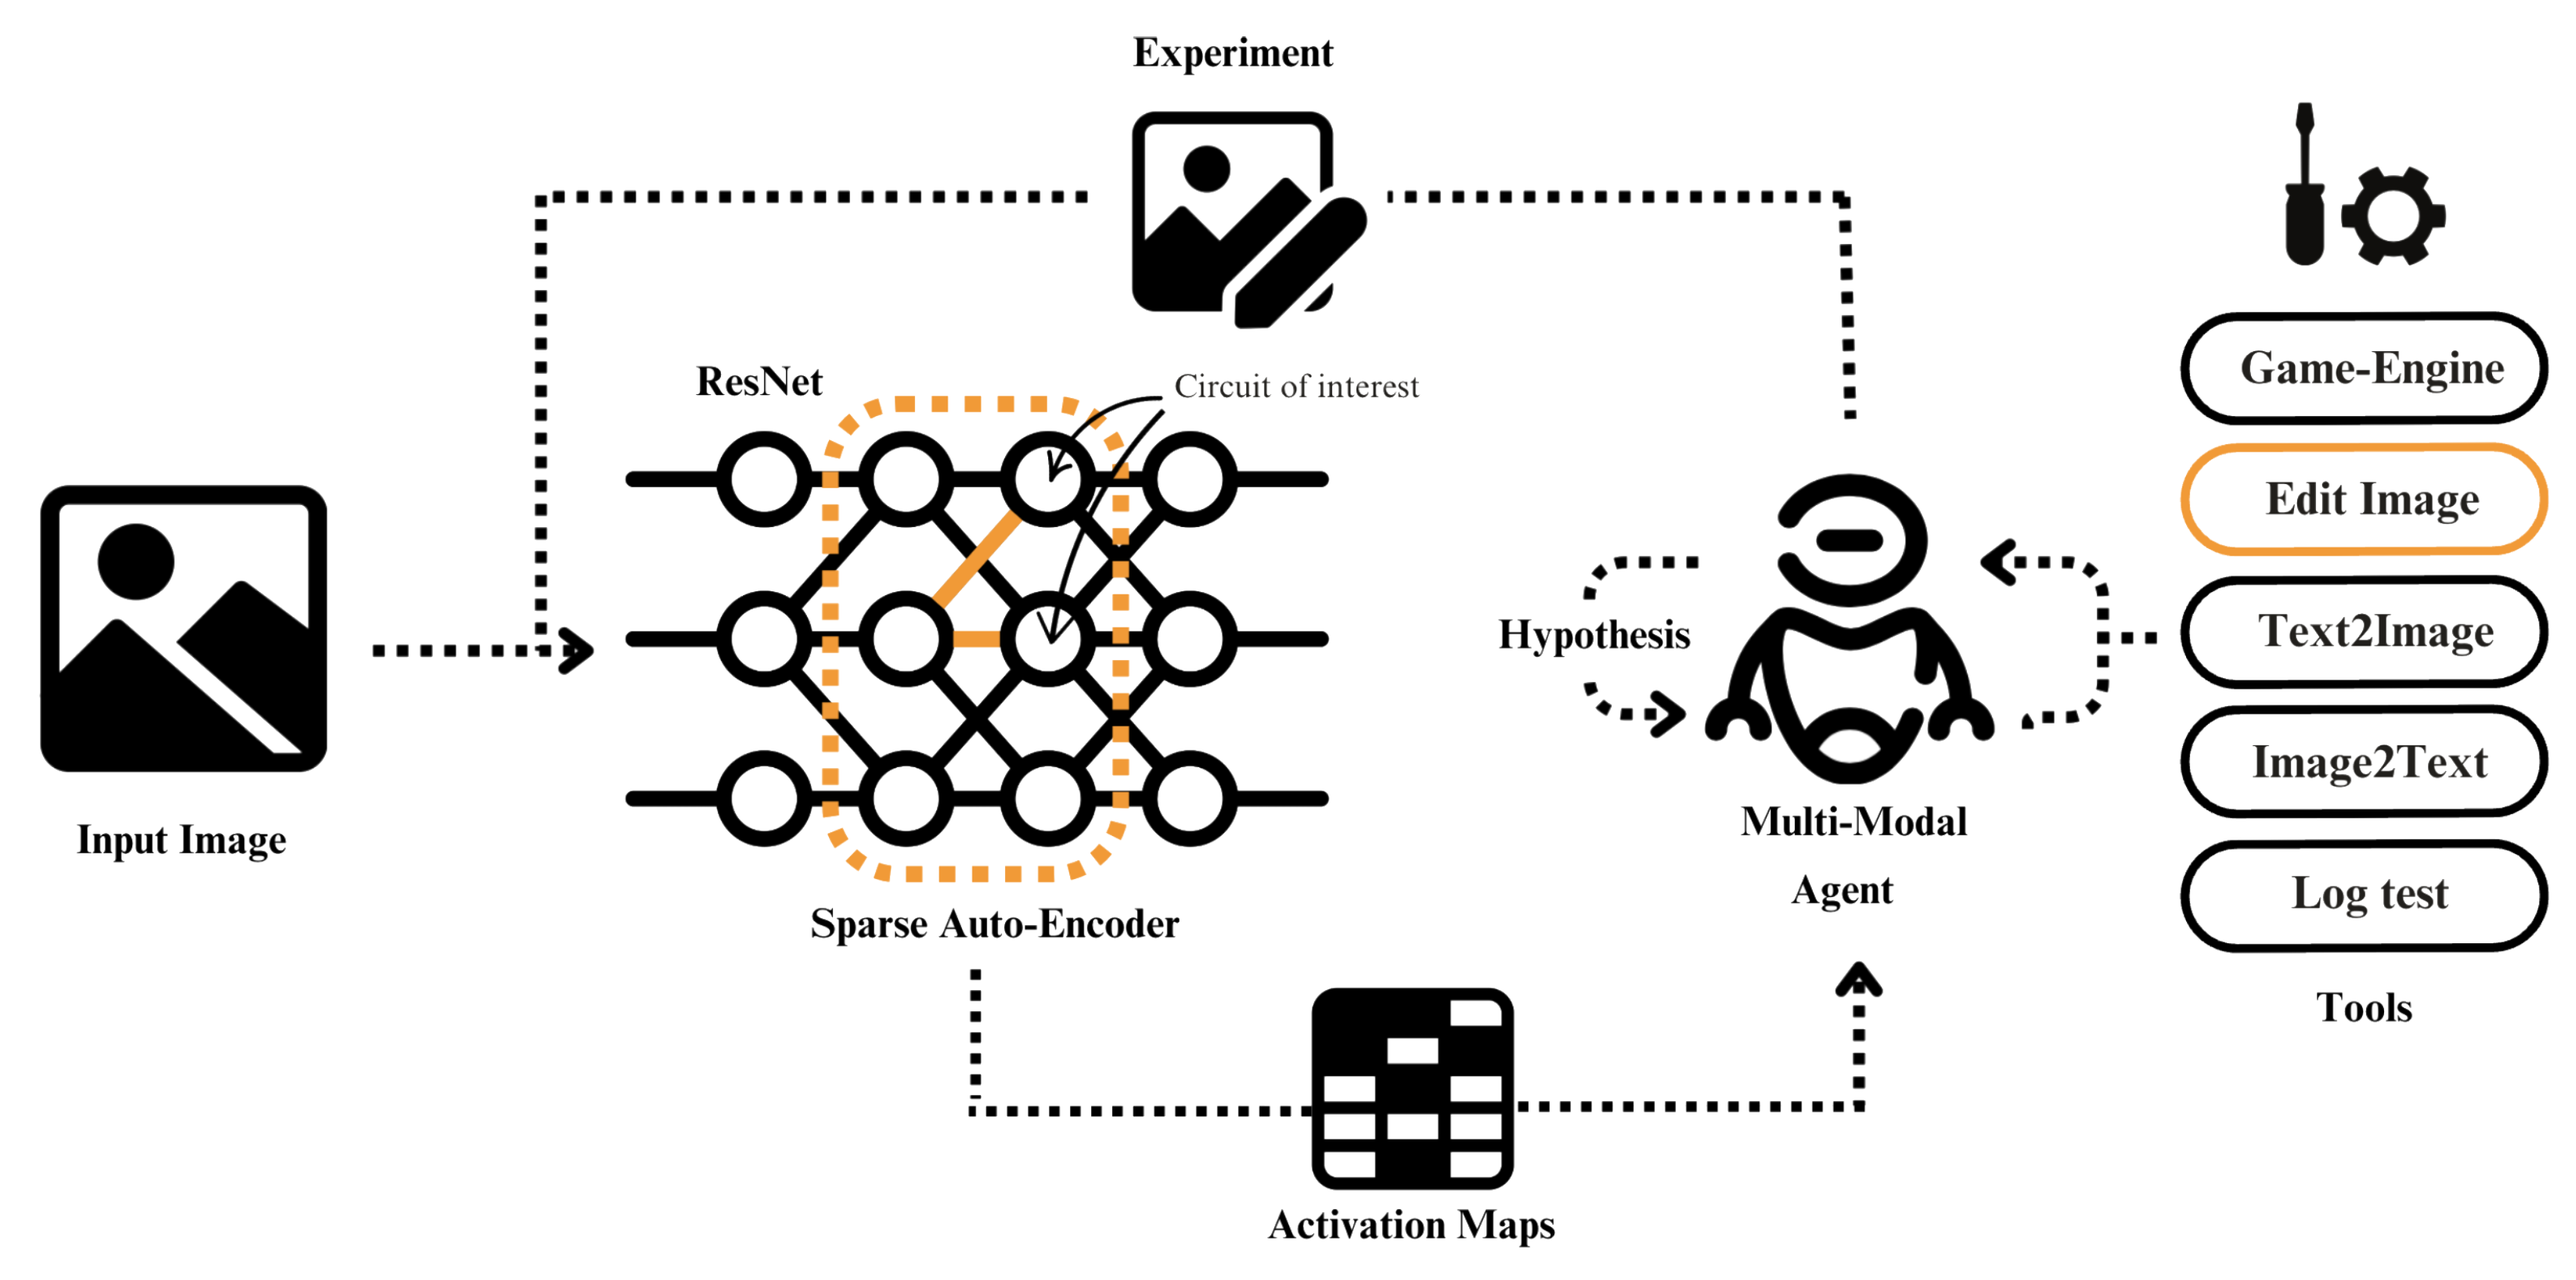
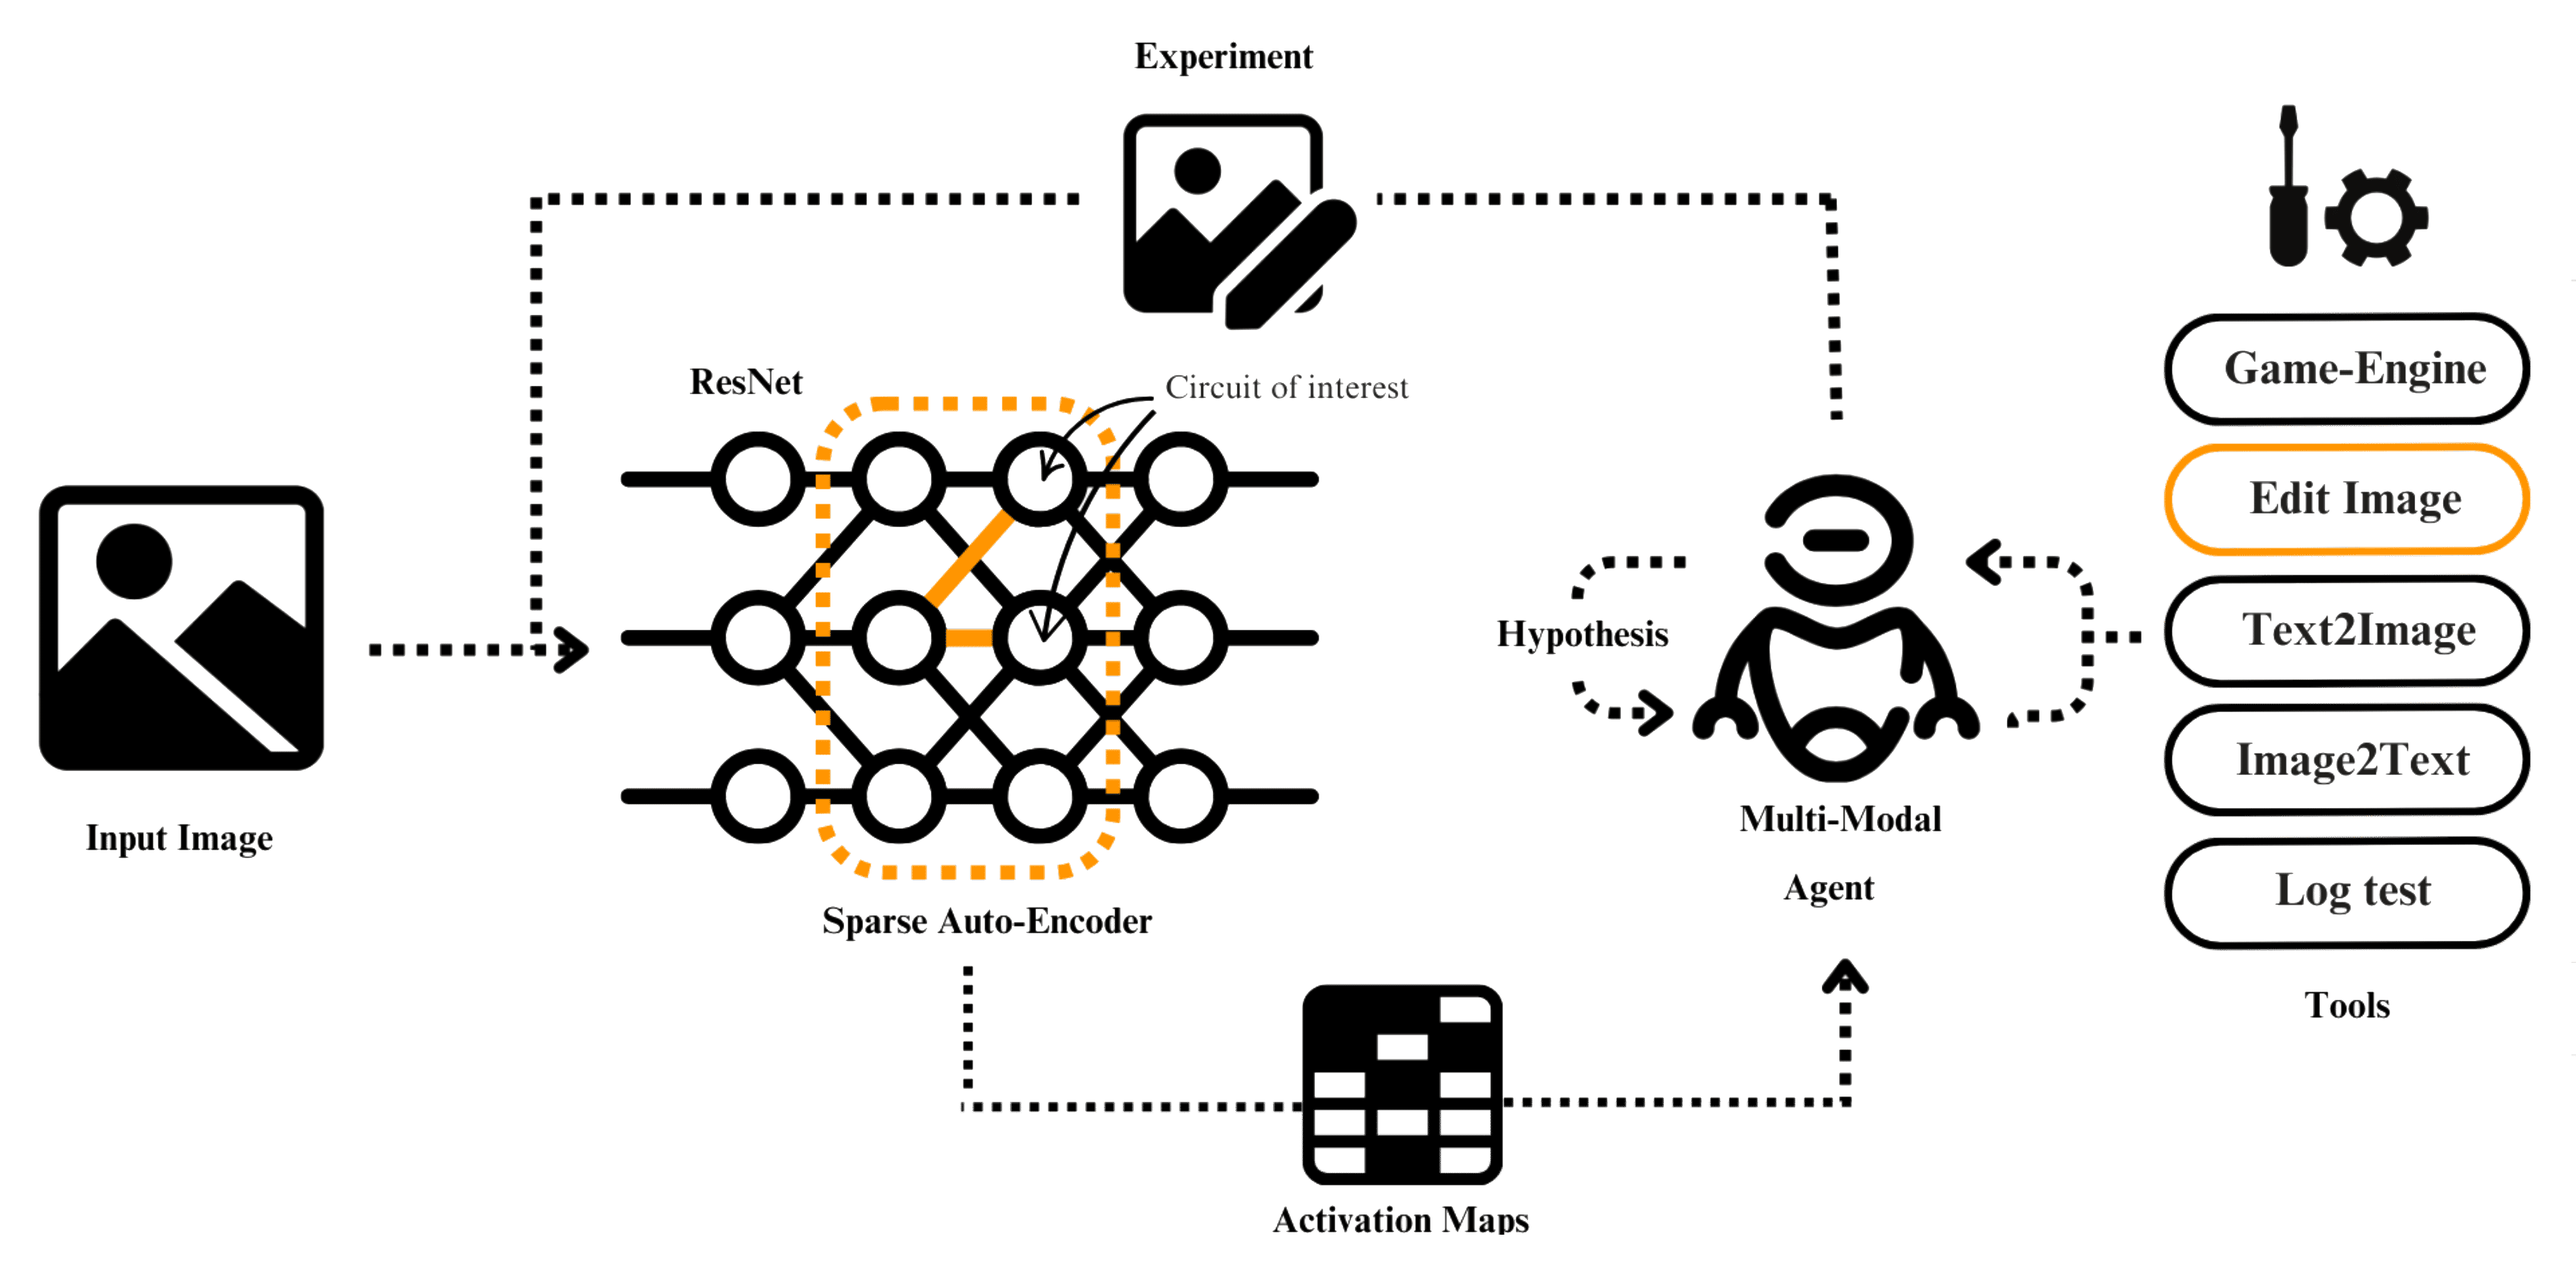
AIM

diff --git a/_research/AIM: Automated Interpretability Modelling.md b/_research/AIM: Automated Interpretability Modelling.md
@@ -148,7 +148,7 @@ with neural networks.
 <br><br>
 
 
-<p align="center"><img src="../images/low-level.png" alt="Alt text" width="750" height="340" style="border-radius: 10px;"></p>
+<p align="center"><img src="../images/low-level.png" alt="Alt text" width="750" height="350" style="border-radius: 10px;"></p>
 
 <h3 align="center">3. AIM Methodology</h3>
 
@@ -179,7 +179,7 @@ design builds on recent advances in tool-use by language models (Surís
 et al., 2023; Gupta & Kembhavi, 2023), while specifically addressing the
 requirements of iterative neural network analysis.  
 
-![image](media/image3.png){width="6.26389in" height="8.86389in"}
+<p align="center"><img src="../images/flow.png" alt="Alt text" width="750" height="1150" style="border-radius: 10px;"></p>
 
 **Figure 3:** **Some description!**  
 
